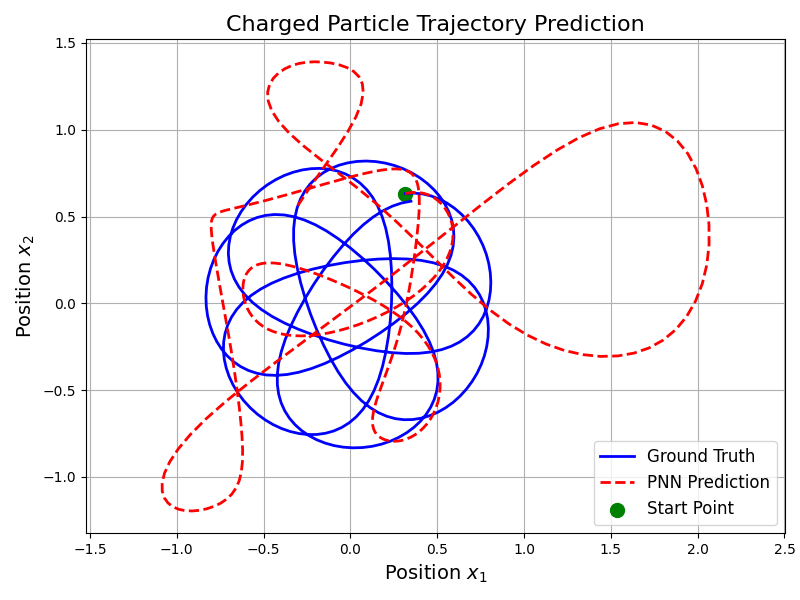
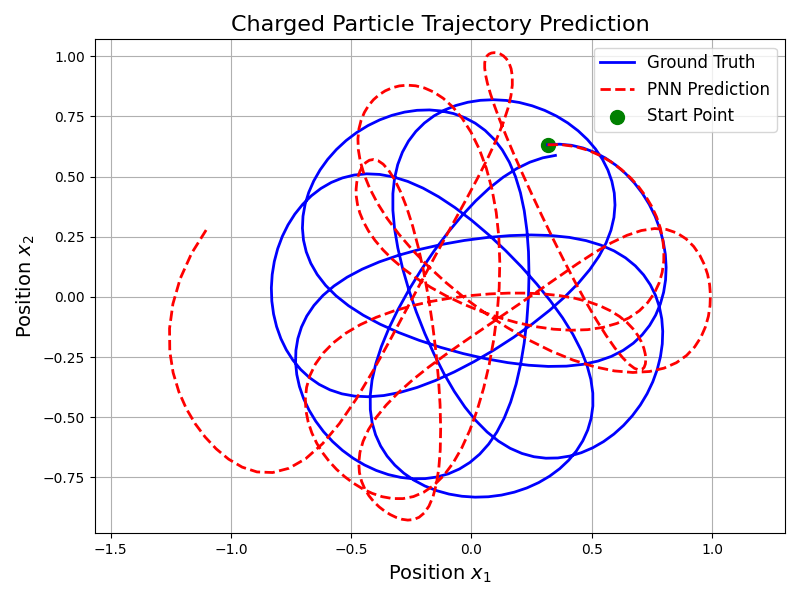
final?

diff --git a/code/Quiestion 2/Q2T.py b/code/Quiestion 2/Q2T.py
@@ -141,24 +141,6 @@ def load_data():
     return train_data, trainP_data, test_data
 
 
-#def load_data():
-#    # Load and normalize data with feature-wise standardization
-#    def process_data(lines):
-#        data = torch.tensor([list(map(float, line.strip().split())) for line in lines if line.strip()])
-#        means = data.mean(dim=0)
-#        stds = data.std(dim=0)
-#        return (data - means) / (stds + 1e-8)
-#
-#    with open('../../data/train.txt', 'r') as f:
-#        train_data = process_data(f.readlines()[:1200])
-#        
-#    with open('../../data/test.txt', 'r') as f:
-#        test_data = process_data(f.readlines()[:300])
-#
-#    # Create shifted targets for training
-#    return (train_data[:-1], train_data[1:], test_data)
-
-
 def train(model, X_train, y_train, X_test, epochs=500000, lr=0.01):
 
     model = model.to(device)
@@ -167,7 +149,7 @@ def train(model, X_train, y_train, X_test, epochs=500000, lr=0.01):
         model.parameters(),
         lr=lr,              # or your specific learning rate
         betas=(0.9, 0.999),   # default AdamW momentum settings
-        weight_decay=1e-4,
+        weight_decay=1e-3,
         eps=1e-8              # numerical stability
     )
 
@@ -179,8 +161,8 @@ def train(model, X_train, y_train, X_test, epochs=500000, lr=0.01):
     scheduler = ReduceLROnPlateau(
     optimizer,
     mode='min',
-    factor=0.8,
-    patience=5,
+    factor=0.7,
+    patience=10,
     min_lr=1e-6
     )
     
